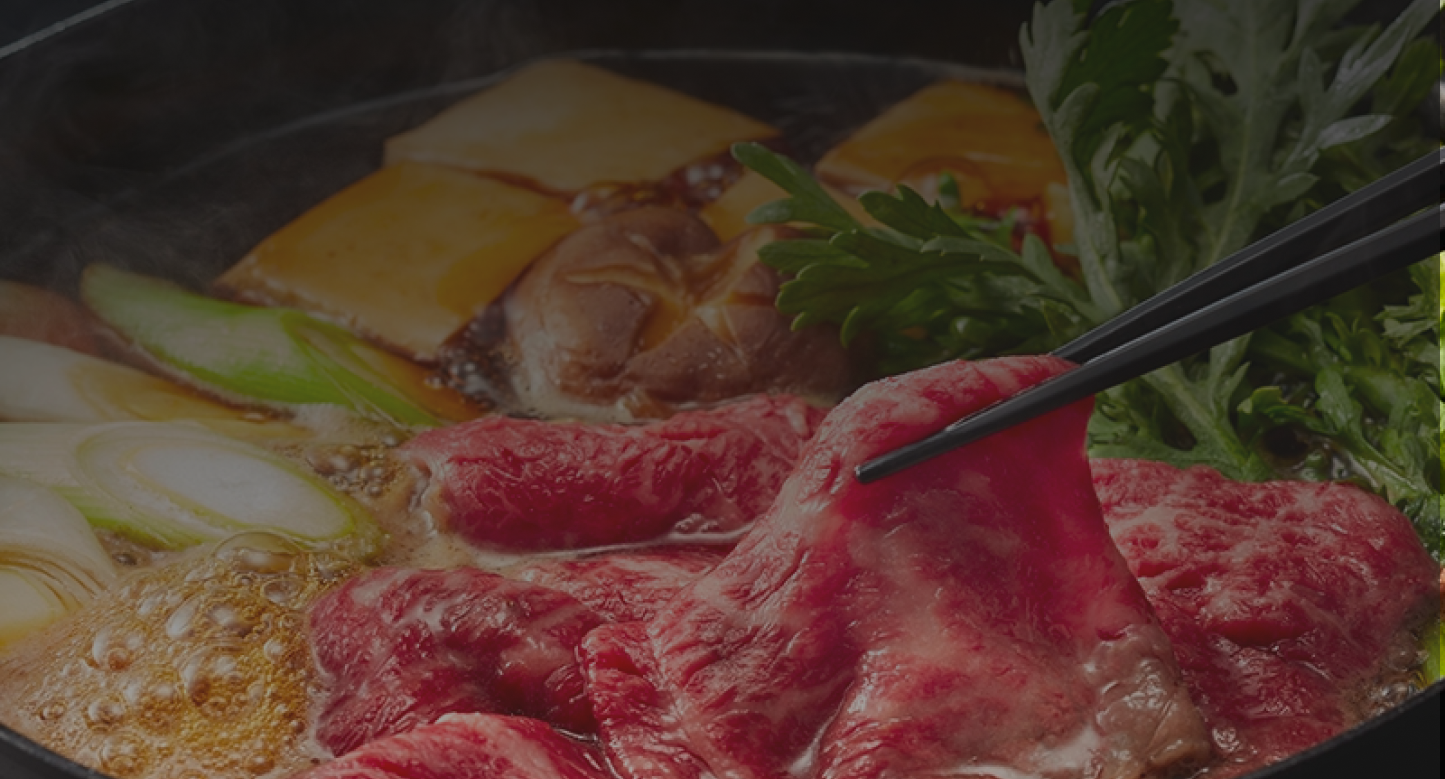
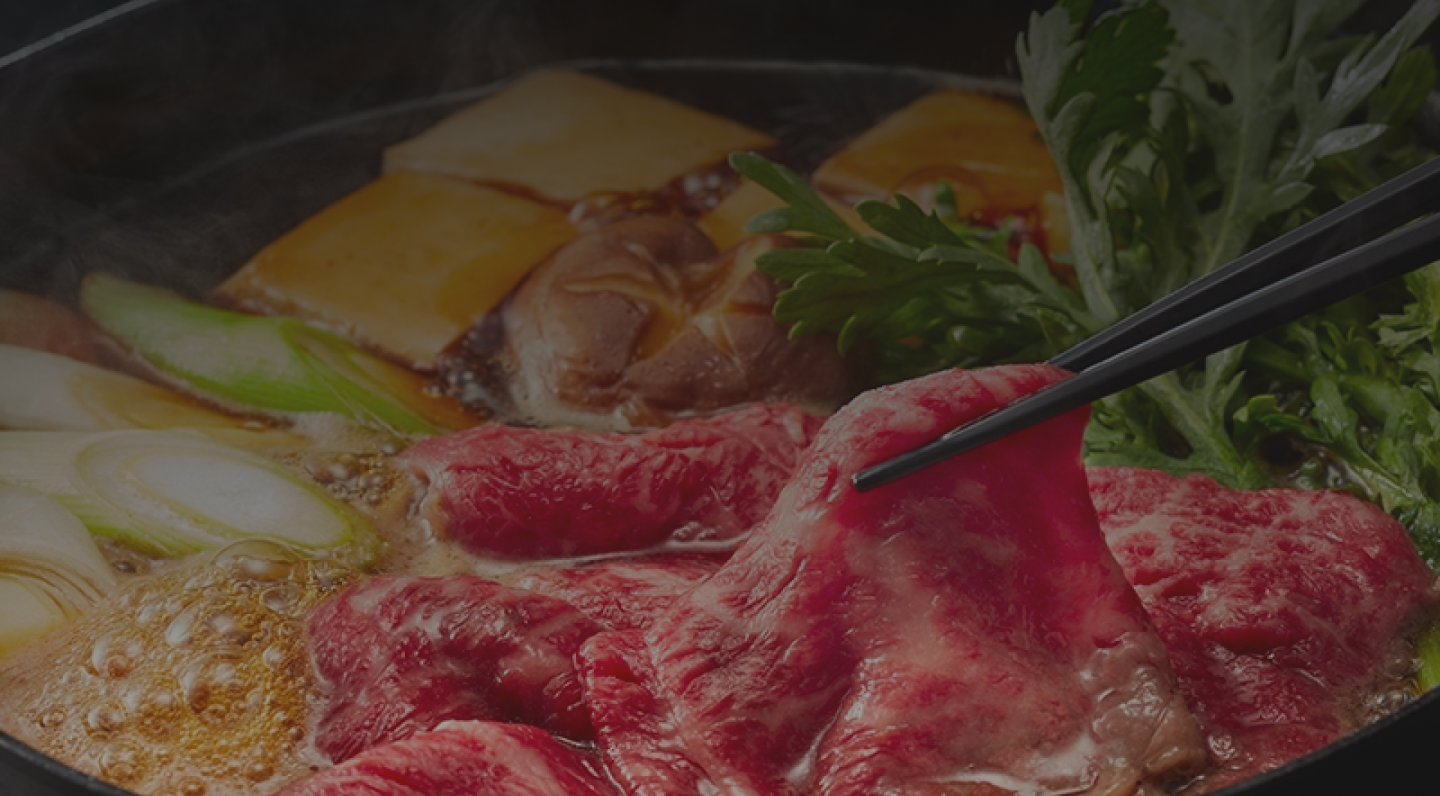
update home not finish

diff --git a/front_end/html/home.html b/front_end/html/home.html
@@ -15,8 +15,8 @@
   </head>
   <body class="bg-black">
 
-    <section id="landing">
-      <div class="landing__container w-[100vw]">
+    <section class="bg-cover bg-no-repeat" style="background-image: url('/src/img/landing.png'); height: auto; width: 100vw;">
+        <div class="mx-auto h-[calc(100vh-62px)] w-auto max-w-[1280px] overflow-hidden flex flex-col items-center justify-center">
         <h1 class="text-white text-8xl libre-caslon tracking-widest [text-shadow:_10px_5px_5px_rgb(0_0_0_/_40%)]">Shabu PLZ</h1>
         <h2 class="Noto text-white text-2xl mt-5">ประสบการณ์ "กิน" ไม่รู้ลืม</h2>
         <div class="mt-10 space-x-[100px]">
@@ -25,11 +25,12 @@
         </div>
       </div>
     </section>
-    <section class="section">
-      <div class="grid-container">
+
+    <section class="pb-80 flex justify-center">
+      <div class="grid grid-cols-2 gap-30">
         <img src="/src/img/section1.png" width="100%" />
-        <div class="content">
-          <div class="title">ร้านชาบูเกรดพรีเมี่ยม</div>
+        <div class="flex flex-col justify-center gap-20">
+          <div class="text-[#a77200] text-5xl Noto font-[1000] tracking-widest">ร้านชาบูเกรดพรีเมี่ยม</div>
           <div class="box-text">
             นำเสนออาหารที่อร่อย สะอาด ปลอดภัย ถูกหลักโภชนาการ
             พร้อมทั้งบริการที่อบอุ่น ประทับใจเหมือนอยู่ภัตตาคาร
@@ -39,6 +40,7 @@
         </div>
       </div>
     </section>
+    
     <!-- <section class="section">
       <div class="grid-container">
         <div class="content">

diff --git a/front_end/css/style.css b/front_end/css/style.css
@@ -82,15 +82,15 @@ body {
   gap: 10px;
 } */
 
-#landing {
+/* #landing {
   background-image: url('/src/img/landing.png');
   background-repeat: no-repeat;
   background-size: cover;
   height: auto;
   width: 100vw;
-}
+} */
 
-.landing__container {
+/* .landing__container {
   margin: auto;
   height: calc(100vh - 62px);
   width: fit-content;
@@ -100,7 +100,7 @@ body {
   flex-direction: column;
   align-items: center;
   justify-content: center;
-}
+} */
 
 /* .hero-text {
   color: white;
@@ -131,37 +131,37 @@ body {
   font-family: 'Noto Sans Thai';
 } */
 
-.buttons .button:hover {
+/* .buttons .button:hover {
   background-color: darkgrey;
   transition: background-color 0.3s ease;
-}
+} */
 
-.section {
+/* .section {
   background-color: black;
   color: white;
   padding-block: 80px;
   display: flex;
   justify-content: center;
   font-family: 'Noto Sans Thai';
-}
+} */
 
-.container {
+/* .container {
   max-width: 1280px;
-}
+} */
 
-.grid-container {
+/* .grid-container {
   max-width: 1280px;
   display: grid;
   grid-template-columns: 1fr 1fr;
   gap: 30px;
-}
+} */
 
-.content {
+/* .content {
   display: flex;
   flex-direction: column;
   justify-content: center;
   gap: 20px;
-}
+} */
 
 .title {
   text-align: center;
